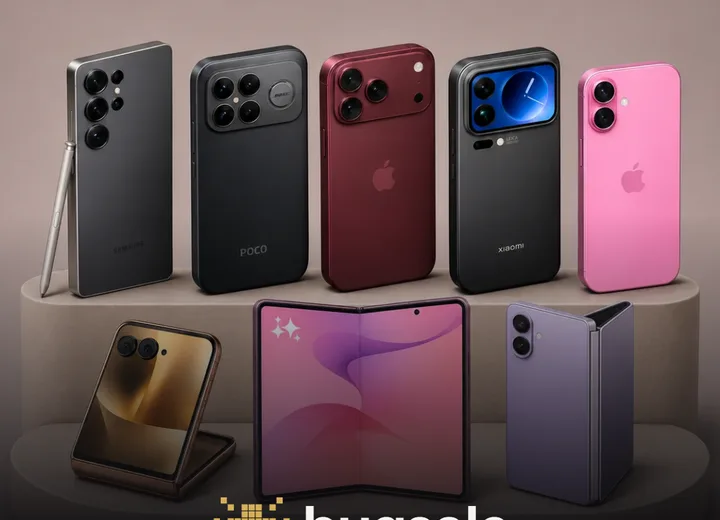
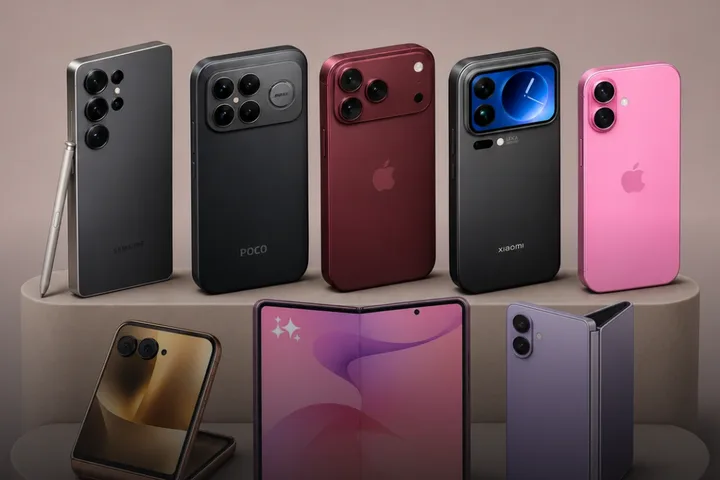
Menu centralizado como no Figma, busca com fundo claro, sem aviso de afiliado fora da página Sobre; prévia do artigo e da marca no visual novo (?v2)
Claude-Session: https://claude.ai/code/session_012pixyD49oAFXUm2FNedUbT

diff --git a/static/css/site.css b/static/css/site.css
@@ -1453,7 +1453,7 @@ html.v2[data-theme="light"] .h-lado:not(.locked):hover{border-color:#B8913A}
 .o2-btn:hover{background:var(--v-purple);color:#fff !important}
 .o2-nota{font-size:11px;color:var(--v-soft)}
 .grupo2{display:flex;flex-direction:column;border-radius:16px;overflow:hidden;background:#0B0B0D;color:#F2F2F2 !important;min-height:100%}
-.grupo2-img{position:relative;display:block;aspect-ratio:720/400;overflow:hidden}
+.grupo2-img{position:relative;display:block;aspect-ratio:720/440;overflow:hidden}
 .grupo2-img img{width:100%;height:100%;object-fit:cover;object-position:50% 20%;display:block}
 .grupo2-img::after{content:"";position:absolute;inset:auto 0 0 0;height:48%;background:linear-gradient(to top,#0B0B0D,rgba(11,11,13,0))}
 .grupo2-txt{display:flex;flex-direction:column;align-items:center;text-align:center;gap:16px;padding:0 24px 32px;margin-top:-24px;position:relative;flex:1;justify-content:center}
@@ -1478,3 +1478,97 @@ html.v2[data-theme="light"] .h-lado:not(.locked):hover{border-color:#B8913A}
 }
 html.v2 body::before,html.v2 body::after{display:none !important} html.v2 body{background:var(--v-bg) !important;color:var(--v-ink) !important}
 @media (max-width:760px){ .o2-img{grid-row:1 / span 2} }
+/* menu como no Figma: tudo centralizado, Comparador só em texto um pouco mais forte */
+.hdr-bar{justify-content:center;gap:48px}
+.hdr-nav{margin-left:0;gap:40px}
+.hdr-nav a.cta{background:none;color:var(--v-ink);padding:8px 0;height:auto;border-radius:0;font-weight:700}
+.hdr-nav a.cta:hover{background:none;color:var(--v-gold)}
+.hdr-tools{gap:16px}
+@media (max-width:760px){ .hdr-bar{justify-content:space-between} }
+/* fundo da busca: desfocado e claro, sem escurecer */
+.busca-fundo{background:color-mix(in srgb,var(--v-bg) 45%,transparent)}
+
+/* =================== ARTIGO no visual novo (html.v2) =================== */
+html.v2 main.wrap{max-width:980px;padding:0 16px}
+html.v2 .post *{-webkit-backdrop-filter:none !important;backdrop-filter:none !important;text-shadow:none !important}
+html.v2 .post,html.v2 .post p,html.v2 .post li,html.v2 .post td{color:var(--v-ink)}
+html.v2 .post .crumb,html.v2 .post .cover-side,html.v2 .post .head-ofertas{display:none !important}
+html.v2 .post{display:grid !important;grid-template-columns:minmax(0,1fr) 300px;column-gap:32px;margin-top:40px}
+html.v2 .post-head{grid-column:1;grid-row:1;display:flex !important;flex-direction:column;gap:16px;padding:0 !important;background:none !important;border:0 !important}
+html.v2 .post-head .kicker{font:500 10px/1 var(--body) !important;text-transform:uppercase;letter-spacing:.06em;color:var(--v-soft) !important;border:1px solid var(--v-line);border-radius:4px;padding:4px 6px;align-self:flex-start}
+html.v2 .post-head .kicker .brandtag{color:var(--v-ink) !important;font-weight:700}
+html.v2 .post-head h1{font:700 clamp(28px,3.4vw,40px)/1.12 var(--body) !important;color:var(--v-ink) !important;margin:0 !important;letter-spacing:-.01em}
+html.v2 .post-head .dek{font-size:16px !important;line-height:1.5;color:var(--v-soft) !important;margin:0 !important;max-width:60ch}
+html.v2 .post-head .author{background:var(--v-surface) !important;border:1px solid var(--v-line) !important;border-radius:16px !important;padding:8px 16px !important;margin:0 !important}
+html.v2 .post-head .author *{color:var(--v-ink) !important}
+html.v2 .post-head .author .ico-btn{background:color-mix(in srgb,var(--v-ink) 8%,transparent) !important;border:0 !important}
+/* melhores ofertas à direita do título */
+html.v2 .ofertas-mini.om-topo{display:block !important;grid-column:2;grid-row:1;align-self:start;margin:0 !important;order:0 !important}
+html.v2 .ofertas-mini{background:var(--v-surface) !important;border:1px solid var(--v-line) !important;border-radius:16px !important;padding:24px !important;box-shadow:none !important}
+html.v2 .ofertas-mini .om-head{display:flex;flex-direction:column;align-items:center;gap:4px;text-align:center;margin-bottom:16px}
+html.v2 .ofertas-mini .om-head b{color:var(--v-ink) !important;font:700 15px var(--body) !important}
+html.v2 .ofertas-mini .om-head *{color:var(--v-soft) !important}
+html.v2 .ofertas-mini.om-topo .om-row{display:flex !important;flex-direction:column;gap:8px}
+html.v2 .om-btn{height:40px !important;border-radius:999px !important;background:transparent !important;border:1px solid var(--v-line) !important;color:var(--v-ink) !important;font:600 13px var(--body) !important;padding:0 16px 0 24px !important;box-shadow:none !important}
+html.v2 .om-btn *{color:inherit !important}
+html.v2 .om-btn.melhor{background:var(--v-btn) !important;border-color:var(--v-btn) !important;color:var(--v-btn-ink) !important}
+html.v2 .om-btn:hover{background:var(--v-purple) !important;border-color:var(--v-purple) !important;color:#fff !important}
+html.v2 .ofertas-mini .of-nota,html.v2 .ofertas-mini small{color:var(--v-soft) !important;text-align:center;display:block;margin-top:16px;font-size:11px}
+/* capa abaixo do título, largura cheia */
+html.v2 .post > .cover:not(.cover-side){display:block !important;grid-column:1 / -1;grid-row:2;margin:32px 0 0 !important}
+html.v2 .post > .cover .art{aspect-ratio:980/400 !important;height:auto !important;border-radius:16px !important;background:color-mix(in srgb,var(--v-ink) 6%,var(--v-surface)) !important;-webkit-mask-image:none !important;mask-image:none !important;box-shadow:none !important}
+html.v2 .post > .cover .art .watermark{display:none}
+html.v2 .post > .cover .art.is-studio img.cut{height:84% !important}
+html.v2 .post > .cover figcaption{color:var(--v-soft) !important;font-size:12px;margin-top:8px}
+/* corpo do texto: coluna de leitura centralizada */
+html.v2 .post-body{grid-column:1 / -1;grid-row:3;max-width:680px;margin:48px auto 0 !important;width:100%}
+html.v2 .post-body p{font-size:16px;line-height:1.7;color:var(--v-ink) !important}
+html.v2 .post-body h2{font:700 24px/1.25 var(--body) !important;color:var(--v-ink) !important;margin:48px 0 16px !important}
+html.v2 .post-body .lede{position:relative;font-style:italic;color:#9A7A2C !important;border-left:2px solid var(--v-gold);padding-left:24px !important;margin-left:48px !important}
+html[data-theme="dark"].v2 .post-body .lede{color:var(--v-gold) !important}
+html.v2 .post-body .lede::before{color:var(--v-gold) !important}
+/* caixas: ficha, gráfico, régua, personas, veredito, ofertas do fim, comparar */
+html.v2 .ficha,html.v2 .preco-chart,html.v2 .alvo,html.v2 .persona,html.v2 .cta-compare,html.v2 .post-img{background:var(--v-surface) !important;border:1px solid var(--v-line) !important;border-radius:16px !important;box-shadow:none !important}
+html.v2 .ficha *,html.v2 .preco-chart figcaption *,html.v2 .alvo *,html.v2 .persona *,html.v2 .cta-compare *{color:var(--v-ink)}
+html.v2 .ficha th,html.v2 .preco-chart small,html.v2 .alvo .al-nota,html.v2 .persona p,html.v2 .cta-compare span,html.v2 .post-img figcaption{color:var(--v-soft) !important}
+html.v2 .ficha tr{border-color:var(--v-line) !important}
+html.v2 .ficha td,html.v2 .ficha th{border-bottom:1px solid var(--v-line) !important}
+html.v2 .preco-chart .axis{stroke:var(--v-line)}
+html.v2 .preco-chart text{fill:var(--v-soft)}
+html.v2 .persona .pe-tags li{background:color-mix(in srgb,var(--v-ink) 7%,transparent) !important;color:var(--v-ink) !important;border:0 !important}
+html.v2 .persona .pe-ico{background:color-mix(in srgb,var(--v-gold) 18%,transparent) !important;color:#9A7A2C !important}
+html.v2 blockquote.verdict{background:var(--v-surface) !important;border:1px solid var(--v-line) !important;border-radius:16px !important;box-shadow:none !important;overflow:hidden}
+html.v2 blockquote.verdict p{color:var(--v-ink) !important;font-style:italic}
+html.v2 blockquote.verdict .kicker{color:#9A7A2C !important}
+html.v2 blockquote.verdict::before{color:color-mix(in srgb,var(--v-gold) 35%,transparent) !important}
+html.v2 .cta-compare .btn{background:var(--v-btn) !important;color:var(--v-btn-ink) !important;border:0 !important}
+html.v2 .cta-compare .btn:hover{background:var(--v-purple) !important;color:#fff !important}
+html.v2 .tags a,html.v2 .tags span{background:transparent !important;border:1px solid var(--v-line) !important;color:var(--v-ink) !important}
+html.v2 .post-body .note{color:var(--v-soft) !important}
+html.v2 .section-title h2{font:700 22px var(--body) !important;color:var(--v-ink) !important}
+html.v2 .section-title a{color:var(--v-soft) !important}
+@media (max-width:900px){
+  html.v2 .post{display:flex !important;flex-direction:column}
+  html.v2 .ofertas-mini.om-topo{margin-top:24px !important;order:0 !important}
+  html.v2 .post > .cover:not(.cover-side){order:2}
+  html.v2 .post-body{order:3;margin-top:32px !important}
+  html.v2 .post-body .lede{margin-left:0 !important}
+}
+html.v2 .post-head .author{align-self:flex-start}
+/* =================== PÁGINA DA MARCA no visual novo =================== */
+.b-tit{font:700 clamp(40px,6vw,64px)/1 var(--body);color:var(--v-ink);margin:48px 0 32px;letter-spacing:-.02em;display:flex;align-items:baseline;gap:16px}
+.b-limpa{font:500 14px var(--body);color:var(--v-soft) !important;text-decoration:underline !important}
+.b-modelos{display:flex;gap:24px;overflow-x:auto;padding-bottom:8px;margin-bottom:32px;scrollbar-width:thin}
+.b-mod{display:flex;flex-direction:column;align-items:center;gap:8px;flex:none;width:88px;text-align:center;font:600 12px/1.25 var(--body);color:var(--v-ink)}
+.b-mod-img{width:72px;height:72px;border-radius:16px;display:grid;place-items:center;background:var(--v-surface);border:1px solid var(--v-line);transition:border-color .2s}
+.b-mod-img img{height:60px;width:auto}
+.b-mod:hover .b-mod-img,.b-mod.on .b-mod-img{border-color:var(--v-gold)}
+.b-mod.on{color:var(--v-gold)}
+.b-vazio{display:flex;align-items:center;justify-content:space-between;gap:16px;flex-wrap:wrap;padding:24px;border:1px solid var(--v-line);border-radius:16px;background:var(--v-surface);color:var(--v-ink);font-size:14px}
+.b-vazio .o2-btn{border:0;cursor:pointer;text-transform:none;letter-spacing:0;font-size:13px;height:32px;padding:0 16px}
+.b-grupo{margin-top:48px}
+.grupo2.largo{display:grid;grid-template-columns:minmax(0,1fr) minmax(0,1fr);min-height:0}
+.grupo2.largo .grupo2-img{aspect-ratio:auto;height:100%;min-height:200px}
+.grupo2.largo .grupo2-img::after{inset:0 0 0 auto;width:40%;height:auto;background:linear-gradient(to left,#0B0B0D,rgba(11,11,13,0))}
+.grupo2.largo .grupo2-txt{margin:0;padding:32px 40px;align-items:flex-start;text-align:left}
+@media (max-width:760px){ .grupo2.largo{grid-template-columns:1fr} .grupo2.largo .grupo2-img{aspect-ratio:720/400;height:auto} .grupo2.largo .grupo2-img::after{inset:auto 0 0 0;width:auto;height:48%;background:linear-gradient(to top,#0B0B0D,rgba(11,11,13,0))} .grupo2.largo .grupo2-txt{align-items:center;text-align:center;padding:0 24px 32px} }

diff --git a/static/js/site.js b/static/js/site.js
@@ -96,7 +96,8 @@ function header(current){
   el.className = "hdr";
   const home = current === "home";
   document.documentElement.classList.toggle("home", home);
-  document.documentElement.classList.toggle("v2", home);   /* visual novo: por enquanto só na tela inicial */
+  const v2 = home || /[?&]v2\b/.test(location.search);   /* visual novo: tela inicial; nas outras páginas só com ?v2 (prévia) */
+  document.documentElement.classList.toggle("v2", v2);
   const links = MENU.filter(([,,k])=>k!=="home");
   el.innerHTML = `<div class="hdr-bar">
       <a class="hdr-brand" href="${R}index.html" aria-label="Bugsale, página inicial">${LOCKUP}</a>
@@ -219,7 +220,7 @@ function ofertaHTML(p){
   return `<section class="ofertas" aria-label="Melhores ofertas">
     <div class="of-head"><span class="of-label">Melhores ofertas encontradas</span><span class="of-meta">${meta}</span></div>
     <div class="of-grid">${slots}</div>
-    <small class="of-nota">${lista.length ? "Links de afiliado: a Bugsale pode ganhar uma comissão, sem custo extra para você. Preços sujeitos a mudança nas lojas." : "Quando a pesquisa sair, você escolhe entre as 3 lojas com o melhor preço."}</small>
+    <small class="of-nota">${lista.length ? "Preços sujeitos a mudança nas lojas." : ""}</small>
   </section>`;
 }
 /* visual do artigo: foto oficial de uso quando existe; senão, o aparelho num "estúdio" com a cara da Bugsale */
@@ -341,7 +342,7 @@ function renderHome(){
     <section class="h-top" aria-label="Destaques">${first ? heroHTML2(first) : ""}<div class="h-lados">${lado.map(ladoHTML2).join("")}</div></section>
     ${recentes.length ? `<h2 class="h-sec">Mais recentes</h2><div class="h-grid">${recentes.map(recenteHTML2).join("")}</div>` : ""}
     <h2 class="h-sec">Melhores ofertas</h2>
-    <section class="h-ofertas"><div class="o2-lista">${ofs.map(ofertaLinha2).join("")}<small class="o2-nota">Preços pesquisados${ofs[0] && ofs[0].p.ofertas.pesquisa ? ` em ${dataHora(ofs[0].p.ofertas.pesquisa)}` : ""}. Links de afiliado: a Bugsale pode ganhar uma comissão, sem custo extra para você.</small></div>
+    <section class="h-ofertas"><div class="o2-lista">${ofs.map(ofertaLinha2).join("")}<small class="o2-nota">Preços pesquisados${ofs[0] && ofs[0].p.ofertas.pesquisa ? ` em ${dataHora(ofs[0].p.ofertas.pesquisa)}` : ""}.</small></div>
       <a class="grupo2" href="${GRUPO}" target="_blank" rel="noopener"><span class="grupo2-img"><img src="${R}img/grupo-ofertas.webp" alt="Celulares de várias marcas lado a lado" loading="lazy"></span>
         <span class="grupo2-txt"><span class="grupo2-logo">${LOCKUP}</span><b>Entre no nosso grupo de ofertas de celulares</b><span>Ofertas diárias, conferidas com o histórico de preço. Só promoção que vale o seu Pix.</span><span class="grupo2-btn">Entrar no grupo</span></span></a>
     </section>`;
@@ -352,8 +353,34 @@ function renderHome(){
   });
 }
 
+function grupoHTML2(largo){
+  return `<a class="grupo2${largo?" largo":""}" href="${GRUPO}" target="_blank" rel="noopener"><span class="grupo2-img"><img src="${R}img/grupo-ofertas.webp" alt="Celulares de várias marcas lado a lado" loading="lazy"></span>
+    <span class="grupo2-txt"><span class="grupo2-logo">${LOCKUP}</span><b>Entre no nosso grupo de ofertas de celulares</b><span>Ofertas diárias, conferidas com o histórico de preço. Só promoção que vale o seu Pix.</span><span class="grupo2-btn">Entrar no grupo</span></span></a>`;
+}
+function renderBrand2(brand){
+  const main = document.getElementById("content");
+  const modelo = new URLSearchParams(location.search).get("modelo");
+  const label = brand==="Apple" ? "iPhone" : brand, pg = BRAND_PAGE[brand];
+  const ids = Object.keys(MQ_DATA.phones).filter(id=>P(id).marca===brand);
+  let arts = publicados().filter(a => P(a.phone).marca === brand || (a.vs && P(a.vs).marca === brand)).sort(porData);
+  if(modelo) arts = arts.filter(a => a.phone===modelo || a.vs===modelo);
+  const keep = /[?&]v2\b/.test(location.search) ? "&v2" : "";
+  const modelos = `<div class="b-modelos">${ids.map(id=>{ const p=P(id); return `<a class="b-mod${id===modelo?" on":""}" href="${R}${pg}?modelo=${id}${keep}"><span class="b-mod-img"><img src="${R}${p.cut}" alt="" loading="lazy"></span><span>${esc(p.nome)}</span></a>`; }).join("")}</div>`;
+  const [first, ...rest] = arts;
+  let corpo = "";
+  if(!arts.length){
+    corpo = `<div class="b-vazio"><span>Ainda não temos conteúdo sobre o ${esc(P(modelo).nome)}. Veja a ficha e o preço no comparador.</span><button class="o2-btn" type="button" data-compare="${modelo}">Comparar o ${esc(P(modelo).nome)}</button></div>`;
+  } else {
+    corpo = `<section class="h-top" aria-label="Destaques">${heroHTML2(first)}<div class="h-lados">${rest.slice(0,3).map(ladoHTML2).join("")}</div></section>
+      ${rest.length > 3 ? `<h2 class="h-sec">Mais recentes</h2><div class="h-grid">${rest.slice(3,7).map(recenteHTML2).join("")}</div>` : ""}`;
+  }
+  main.classList.add("h2");
+  main.innerHTML = `<h1 class="b-tit">${esc(label)}${modelo ? ` <a class="b-limpa" href="${R}${pg}${keep?"?v2":""}">ver todos</a>` : ""}</h1>${modelos}${corpo}<div class="b-grupo">${grupoHTML2(true)}</div>`;
+}
+
 function renderArticles(brand){
   if(!brand) return renderHome();
+  if(document.documentElement.classList.contains("v2")) return renderBrand2(brand);
   const main = document.getElementById("content");
   const modelo = new URLSearchParams(location.search).get("modelo");
   let arts = publicados().filter(a => !brand || P(a.phone).marca === brand || (a.vs && P(a.vs).marca === brand)).sort(porData);
@@ -416,7 +443,7 @@ function ofertaMiniHTML(p, titulo, cls){
     return x ? `<a class="om-btn${i===0?" melhor":""}" href="${esc(x.url)}" target="_blank" rel="sponsored nofollow noopener"><span class="om-loja">${esc(x.loja)}</span><span class="om-dir">${comPreco?`<b>${brl(x.preco)}</b>`:""}<i aria-hidden="true">↗</i></span></a>`
              : `<span class="om-btn vazio" aria-disabled="true"><span class="om-loja">Oferta ${i+1}</span><span class="om-dir"><b>em breve</b></span></span>`;
   }).join("");
-  return `<section class="ofertas-mini${cls?" "+cls:""}" aria-label="Onde comprar"><div class="om-head"><b>${titulo||`Onde comprar o ${esc(p.nome)}`}</b><span>${lista.length?`Pesquisa em ${p.ofertas.pesquisa?dataHora(p.ofertas.pesquisa):"—"}`:"Links das lojas em breve"}</span></div><div class="om-row">${btns}</div>${lista.length ? `<small class="om-nota">Links de afiliado: a Bugsale pode ganhar uma comissão, sem custo extra para você. Preços sujeitos a mudança nas lojas.</small>` : ""}</section>`;
+  return `<section class="ofertas-mini${cls?" "+cls:""}" aria-label="Onde comprar"><div class="om-head"><b>${titulo||`Onde comprar o ${esc(p.nome)}`}</b><span>${lista.length?`Pesquisa em ${p.ofertas.pesquisa?dataHora(p.ofertas.pesquisa):"—"}`:"Links das lojas em breve"}</span></div><div class="om-row">${btns}</div></section>`;
 }
 
 /* histórico de preço: cada ponto é uma pesquisa datada (p.historico = [{data:"2026-04-29", preco:12999}, ...]).
@@ -700,7 +727,7 @@ function renderArticle(){
     </div>
   </article>
   <div class="section-title"><h2>Leia também</h2><a href="${R}index.html">Ver todos →</a></div>
-  <div class="grid4 swipe">${related.map(cardHTML).join("")}</div>`;
+  ${document.documentElement.classList.contains("v2") ? `<div class="h-grid">${related.slice(0,4).map(recenteHTML2).join("")}</div>` : `<div class="grid4 swipe">${related.map(cardHTML).join("")}</div>`}`;
   reveal(main);
   const cp = document.getElementById("copyLink");
   const canShare = !!navigator.share && window.matchMedia("(pointer:coarse)").matches;
